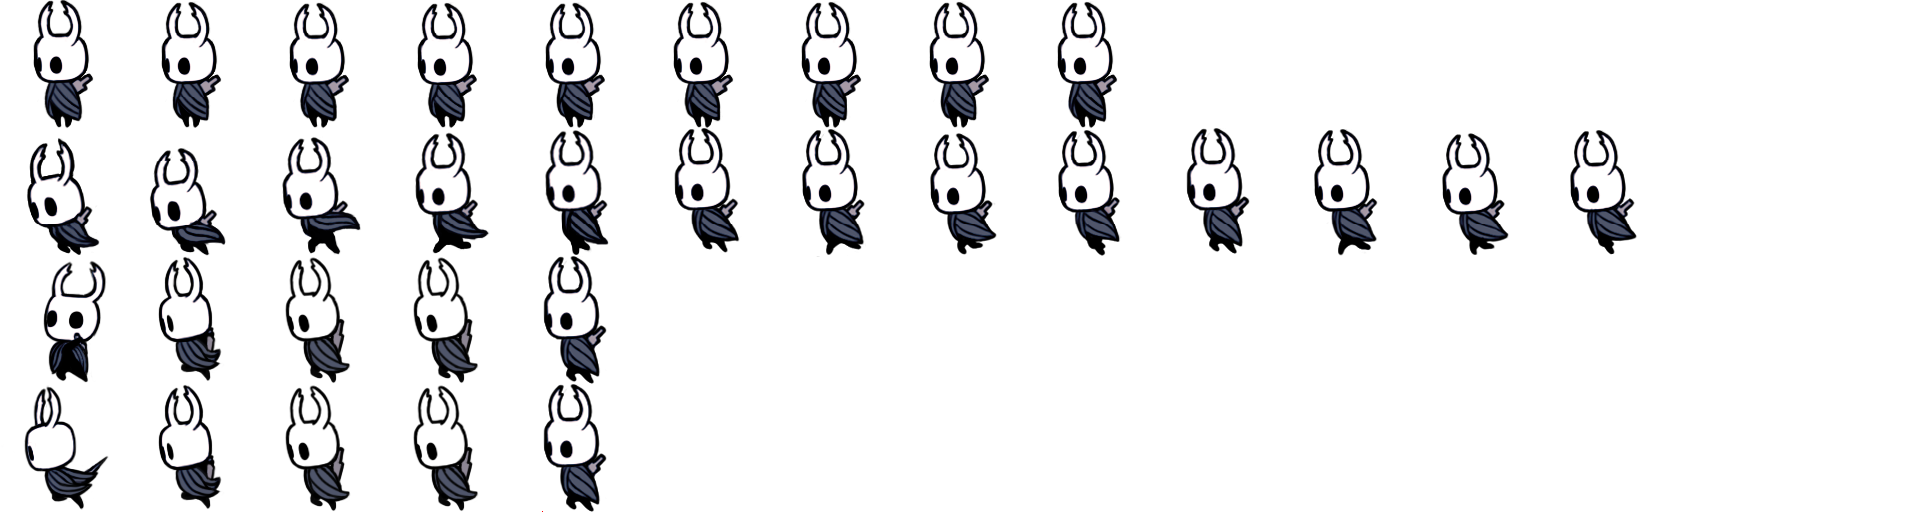
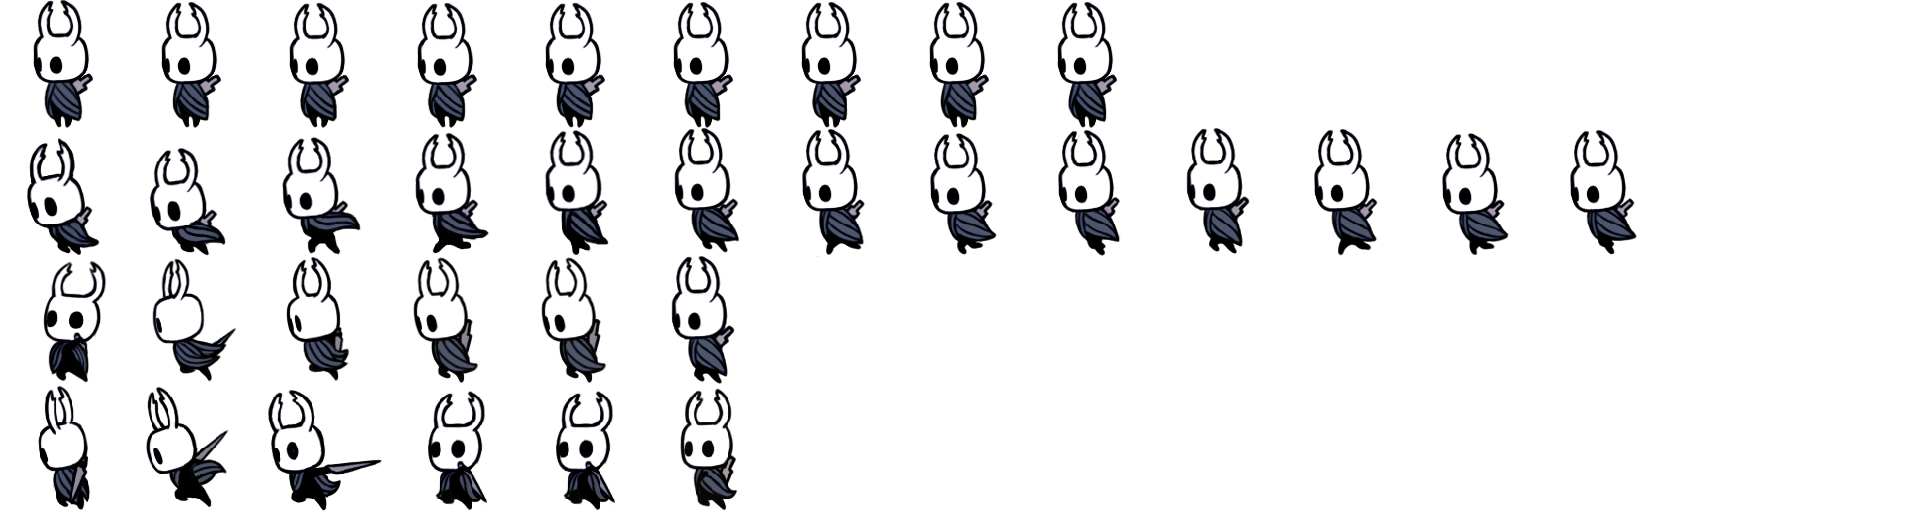
이펙트 리소스 추가 , 이펙트 객체 생성

Changed region(s): [[0.0, 0.5, 0.25, 1.0], [0.2812, 0.5, 0.4062, 1.0]]

diff --git a/knight.py b/knight.py
@@ -1,5 +1,7 @@
 import random
 
+import game_world
+import slash
 from pico2d import get_time, load_image
 from sdl2 import SDL_QUIT, SDL_KEYDOWN, SDLK_ESCAPE
 
@@ -98,8 +100,9 @@ class Run:
 class Slash:
     @staticmethod
     def enter(knight , e):
-        knight.action = random.randint(0,1)
+        knight.action = random.randint(0, 1)
         knight.frame = 0
+        knight.knight_slash()
         #시작 시간을 기록
         pass
     @staticmethod
@@ -128,6 +131,7 @@ class Move_Slash:
     def enter(knight , e):
         knight.action = random.randint(0, 1)
         knight.frame = 0
+        knight.knight_slash()
         #시작 시간을 기록
         pass
     @staticmethod
@@ -182,4 +186,8 @@ class Knight:
         )
     def draw(self):
         self.state_machine.draw()
+
+    def knight_slash(self):
+        slash = Slash(self.x , self.y , self.action)
+        game_world.add_object(slash, 2)
 

diff --git a/slash.py b/slash.py
@@ -1,0 +1,28 @@
+from pico2d import *
+import game_world
+import game_framework
+
+
+TIME_PER_ACTION = 0.4
+ACTION_PER_TIME = 1.0 / TIME_PER_ACTION
+FRAMES_PER_ACTION = 3
+
+
+
+class Slash:
+    image = None
+
+    def __init__(self, x = 0, y = 0, action = 0):
+        if Slash.image == None:
+            Slash.image = load_image('slash.png')
+        self.x, self.y = x, y
+        self.frame = 0
+        self.action = action
+
+    def draw(self):
+        self.image.clip_draw(int(self.frame) * 256, self.action * 128, 256, 128, self.x, self.y)
+
+    def update(self):
+        self.frame = (self.frame + FRAMES_PER_ACTION * ACTION_PER_TIME * game_framework.frame_time)
+        if self.frame > 3:
+            game_world.remove_object(self)

diff --git a/game_world.py b/game_world.py
@@ -1,6 +1,6 @@
 # world[0] : 백그라운드 객체들
 # world[1] : foreground 객체들.
-world = [[],[]]
+world = [[],[],[]]
 
 def add_object(o, depth):
     world[depth].append(o)
